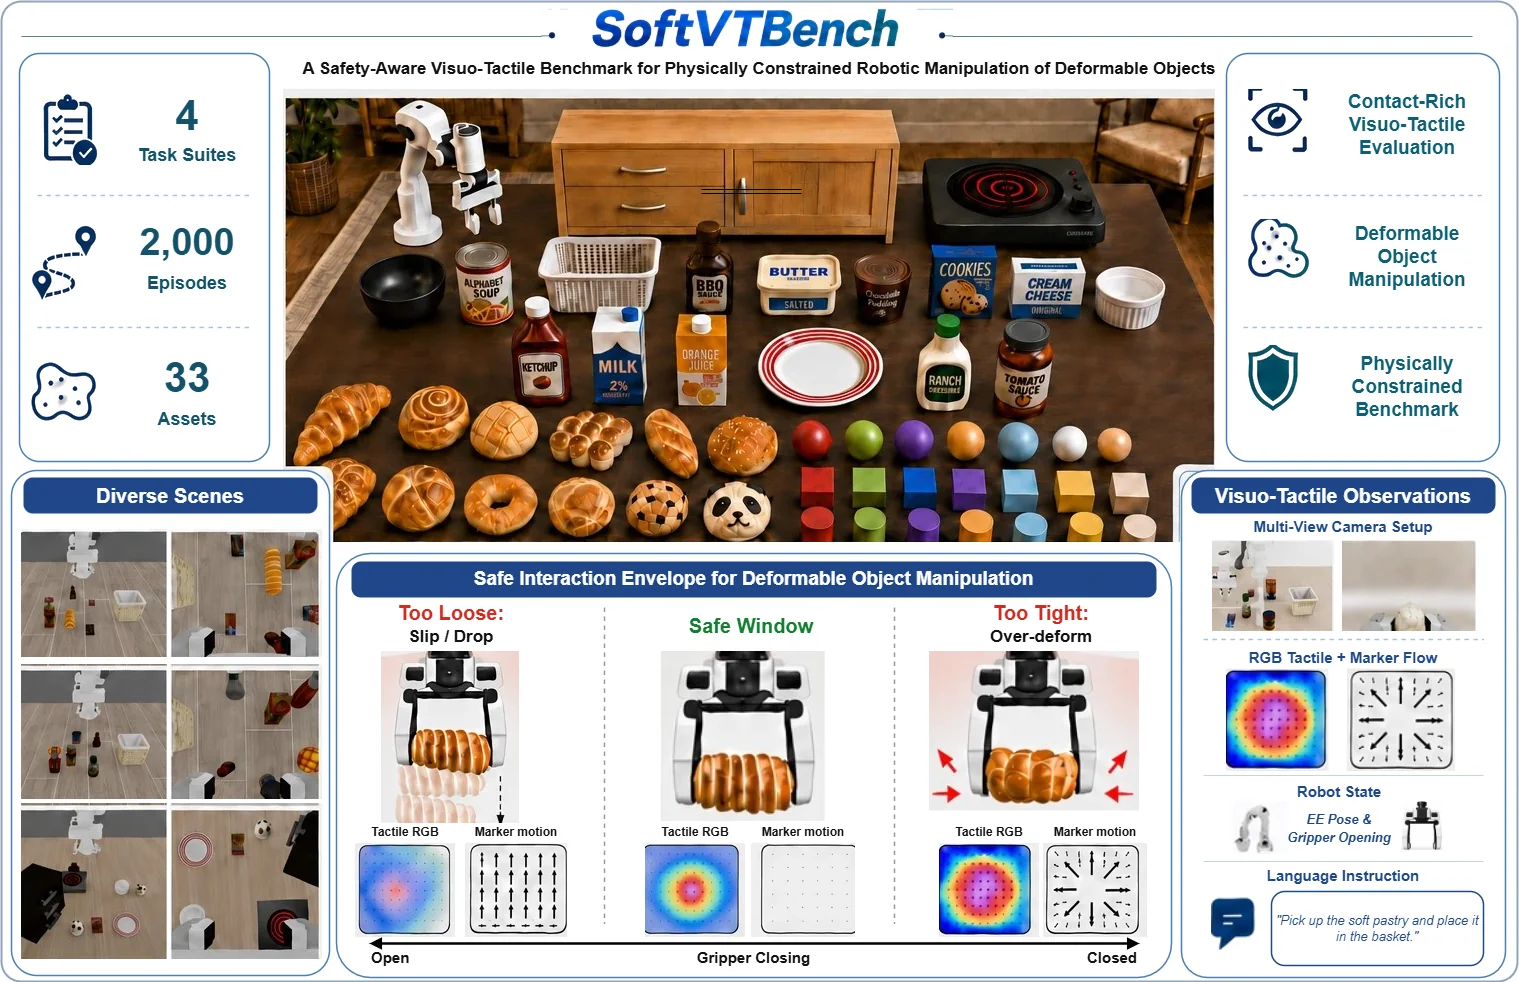
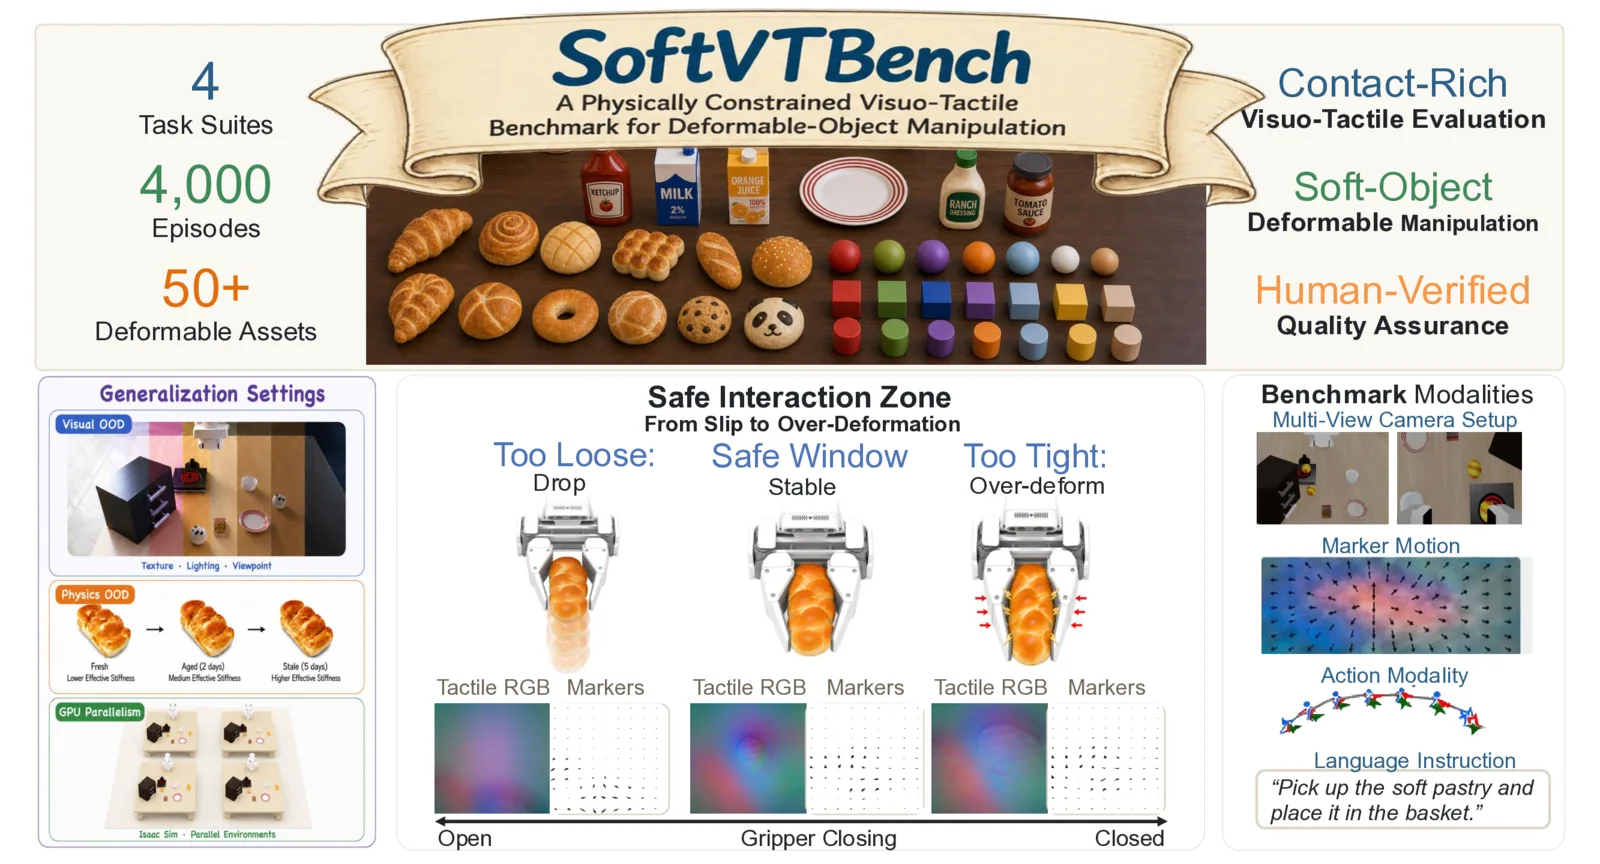
标注 ECCVW 2026 Oral，加扫光；换掉过时的 SoftVTBench 首图
收录标注：
- 详情页元信息表新增「收录」行，SoftVTBench 与 CounterScene 填
  ECCVW 2026 Oral，后面跟不扫光的「早期版本」限定 —— 站上挂的 arXiv
  是扩展版，不加限定会让人以为现在这版被 oral 收录了
- 首页卡片 award 单独成字段，不混在 meta 串里，因为它要单独扫光

扫光技法学自 styledrive.github.io 的 .award-badge-shine：::after 用
content:attr(data-text) 复刻一份同样的文字盖在原文上，给它一条只占
渐变 43%-57% 的窄亮带，用 background-clip:text 只透过字形显示，再把
background-position 从 130% 扫到 -130%。底下那层原文的颜色、字重、
字距一个像素都不动 —— 这正是"只要闪光、不改字色"的做法。实测原文
仍是 rgb(11,43,73) / weight 400。

周期取 2.4s 而非原版 2s：同行样本里循环动画的下限约 2s，这是能接受
的最慢一档。prefers-reduced-motion 下停在固定位置，与原站一致。

顺带换掉 SoftVTBench 首图。旧图是上一版：标题是已经改掉的旧英文标题，
统计写 33 Assets / 2,000 Episodes，与按论文改过的正文（50+ 资产、
4,000 条演示）直接冲突。换成 Figures/new_fig1.pdf —— 统计是
4 Task Suites / 4,000 Episodes / 50+ Deformable Assets，与正文一致。
没用论文正文实际引用的 SoftVTBench_Fig1.pdf，因为那张横幅上把
Manipulation 拼成了 Manipuiation。

diff --git a/src/styles/index.css b/src/styles/index.css
@@ -716,3 +716,49 @@ button:disabled,
     transition: none;
   }
 }
+
+/* ── 收录徽标的扫光 ──────────────────────────────────────────────
+   技法学自 styledrive.github.io 的 .award-badge-shine。原文那层完全不动，
+   动的只是盖在上面那层用 background-clip:text 裁出来的高光带。
+   亮带只占 240% 渐变里的 43%–57%，所以每一轮扫过之间自带间隙，不会连成一片。
+   周期取 2.4s：同行样本里循环动画的下限约 2s，这是能接受的最慢一档。 */
+.v-legacy .tj-shine {
+  position: relative;
+  display: inline-block;
+  white-space: nowrap;
+}
+.v-legacy .tj-shine::after {
+  content: attr(data-text);
+  position: absolute;
+  inset: 0;
+  background-image: linear-gradient(
+    100deg,
+    rgba(198, 152, 62, 0) 0%,
+    rgba(198, 152, 62, 0) 43%,
+    rgba(198, 152, 62, 0.72) 47%,
+    rgba(255, 243, 199, 0.98) 50%,
+    rgba(198, 152, 62, 0.72) 53%,
+    rgba(198, 152, 62, 0) 57%,
+    rgba(198, 152, 62, 0) 100%
+  );
+  background-size: 240% 100%;
+  background-position: 130% 50%;
+  background-repeat: no-repeat;
+  -webkit-background-clip: text;
+  background-clip: text;
+  color: transparent;
+  -webkit-text-fill-color: transparent;
+  pointer-events: none;
+  will-change: background-position;
+  animation: tj-shine 2.4s linear infinite;
+}
+@keyframes tj-shine {
+  0% { background-position: 130% 50%; }
+  100% { background-position: -130% 50%; }
+}
+@media (prefers-reduced-motion: reduce) {
+  .v-legacy .tj-shine::after {
+    animation: none;
+    background-position: 20% 50%;
+  }
+}

diff --git a/src/versions/LegacyProject.tsx b/src/versions/LegacyProject.tsx
@@ -2,6 +2,7 @@
    从 PI 学来的：大号衬线标题 + 标题下的 label/value 元信息表（发表 / 联系）+ 完整作者名单 +
    虚线框硬投影的资源按钮 + 带 mono 全大写角标的图版 + 无粗体的层级（层级只靠字号与字族）。
    换成原版皮肤的：淡蓝底、宋体标题、等宽正文、accent 蓝、原版的硬阴影规格。 */
+import Shine from "../components/Shine";
 import logoBlue from "../assets/tuojing-logo-blue.png";
 import { careers, footer, site } from "./legacyContent";
 import type { Block, Figure, Project } from "./legacyProjects";
@@ -189,6 +190,17 @@ export default function LegacyProject({ project }: { project: Project }) {
         <dl className="mt-8 grid grid-cols-[auto_1fr] gap-x-6 gap-y-1.5 font-mono text-xs">
           <dt className="text-muted-foreground">发表</dt>
           <dd className="text-foreground">{project.date}</dd>
+          {project.venue && (
+            <>
+              <dt className="text-muted-foreground">收录</dt>
+              <dd className="text-foreground">
+                <Shine text={project.venue} />
+                {project.venueNote && (
+                  <span className="text-muted-foreground"> · {project.venueNote}</span>
+                )}
+              </dd>
+            </>
+          )}
           <dt className="text-muted-foreground">状态</dt>
           <dd className="text-foreground">{project.status}</dd>
           <dt className="text-muted-foreground">联系</dt>

diff --git a/src/versions/legacyContent.ts b/src/versions/legacyContent.ts
@@ -45,6 +45,8 @@ export type FeedEntry = {
   titleEn: string;
   tag: string;
   desc: string;
+  /* 外部收录，单独一个字段是因为它要单独扫光，不能混在 meta 串里 */
+  award?: string;
   meta: string;
   href: string;
   links: { label: string; href: string }[];
@@ -71,6 +73,7 @@ export const feed: FeedEntry[] = [
     titleEn: "A Deformation-Aware Visuo-Tactile Dataset and Benchmark",
     tag: "Benchmark",
     desc: "把「完成任务」和「没有把东西弄坏」合成一个指标来衡量：一条轨迹只有既达成目标、又全程未超出该物体标定的形变容差，才算成功。4,000 条专家演示、40 个任务、四个成对套件、50 个以上资产，每个可形变物体都配一个外观一致的刚体孪生。",
+    award: "ECCVW 2026 Oral",
     meta: "arXiv 2607.04234 · 代码与数据集已开源",
     href: "https://github.com/TuojingAI/SoftVTBench",
     links: [
@@ -103,6 +106,7 @@ export const feed: FeedEntry[] = [
     titleEn: "Counterfactual Causal Reasoning in Generative World Models",
     tag: "Safety",
     desc: "不做随机扰动，而是先找出那个「正在维持安全」的关键交通参与者，再对它施加最小干预——把一个安全场景变成真实可信的安全攸关交互，同时保持周围多智能体动态的一致性。",
+    award: "ECCVW 2026 Oral",
     meta: "arXiv 2603.21104 · 代码待发布",
     href: "https://github.com/TuojingAI/CounterScene",
     links: [

diff --git a/src/versions/legacyProjects.ts b/src/versions/legacyProjects.ts
@@ -42,6 +42,9 @@ export type Project = {
   authors?: string;
   /* 机构按论文的编号顺序排列，去重后用 · 分隔 */
   affiliations?: string;
+  /* 外部收录。venue 是会扫光的那段，venueNote 是跟在后面的限定，不扫光 */
+  venue?: string;
+  venueNote?: string;
   lede: string;
   links?: { label: string; href: string }[];
   hero?: Figure;
@@ -213,6 +216,8 @@ export const projects: Project[] = [
       "A Deformation-Aware Visuo-Tactile Dataset and Benchmark for Deformable-Object Manipulation",
     tag: "Benchmark",
     date: "2026 年 7 月",
+    venue: "ECCVW 2026 Oral",
+    venueNote: "早期版本",
     authors:
       "Bowen Jing*, Mingxin Wang*, Ruiyang Hao, Chenchen Ge, Hanwen Shen, Junjie He, Yang Cui, Yiming Hou, Weitao Zhou‡, Jiawei Wang, Minglei Li, Dandan Zhang, Ding Zhao, Houde Liu, Xiaofan Li, Si Liu, Ping Luo, Haibao Yu‡（* equal contribution　‡ corresponding author）",
     affiliations:
@@ -697,6 +702,8 @@ export const projects: Project[] = [
       "Counterfactual Causal Reasoning in Generative World Models for Safety-Critical Closed-Loop Evaluation",
     tag: "Safety",
     date: "2026 年 3 月",
+    venue: "ECCVW 2026 Oral",
+    venueNote: "早期版本",
     authors:
       "Bowen Jing*, Ruiyang Hao*, Weitao Zhou‡, Haibao Yu‡（* equal contribution　‡ corresponding author）",
     affiliations:

diff --git a/src/versions/Legacy.tsx b/src/versions/Legacy.tsx
@@ -5,6 +5,7 @@ import { useEffect, useRef, useState, type CSSProperties } from "react";
 import logoBlue from "../assets/tuojing-logo-blue.png";
 import mesh from "../assets/media/mesh.webp";
 import MorphText, { PHYSICAL } from "../components/MorphText";
+import Shine from "../components/Shine";
 import LegacyProject from "./LegacyProject";
 import { findProject } from "./legacyProjects";
 import type { FeedEntry } from "./legacyContent";
@@ -190,6 +191,11 @@ function Entry({ entry, index }: { entry: FeedEntry; index: number }) {
       <p className="text-xs leading-relaxed text-muted-foreground">{entry.desc}</p>
       <div className="flex flex-wrap items-center gap-x-3 gap-y-1 pt-0.5">
         <span className="font-mono text-[10px] text-accent">阅读项目介绍 →</span>
+        {entry.award && (
+          <span className="font-mono text-[10px] text-foreground">
+            <Shine text={entry.award} />
+          </span>
+        )}
         <span className="font-mono text-[10px] text-muted-foreground/70">
           {entry.meta}
         </span>

diff --git a/src/components/Shine.tsx b/src/components/Shine.tsx
@@ -1,0 +1,16 @@
+/* 扫光文字。技法学自 styledrive.github.io 的 award-badge-shine：
+   ::after 用 content: attr(data-text) 复刻一份同样的文字盖在原文上，
+   给它一条极窄的亮带渐变、用 background-clip: text 只透过字形显示，
+   再把 background-position 从右扫到左。
+
+   关键在于底下那层原文一个像素都不动 —— 颜色、字重、字距全是原样，
+   动的只有盖在上面那层透明文字里的高光。所以「只要闪光、不改字色」。
+
+   data-text 必须和 children 一模一样，否则上下两层字形对不齐。 */
+export default function Shine({ text }: { text: string }) {
+  return (
+    <span className="tj-shine" data-text={text}>
+      {text}
+    </span>
+  );
+}
